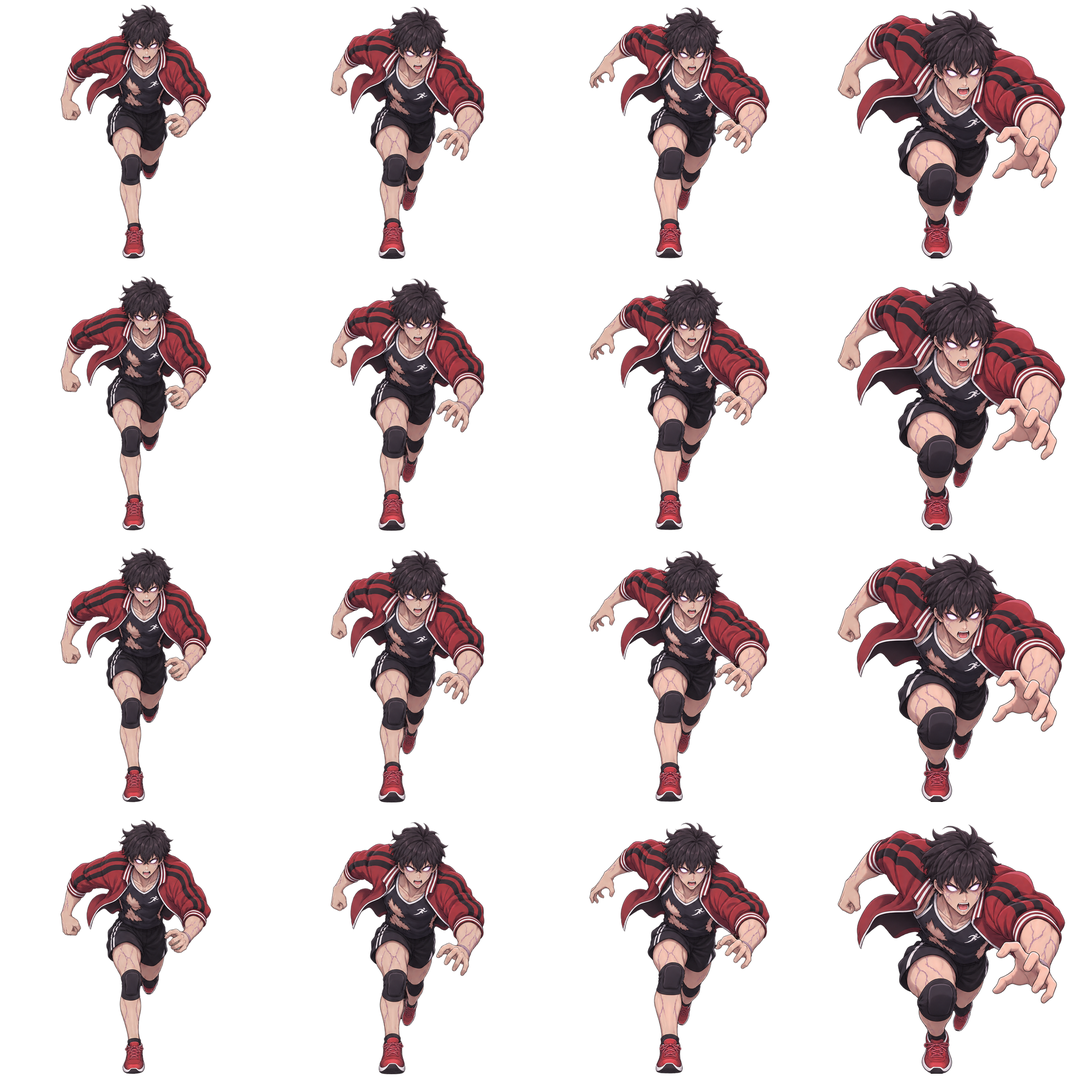
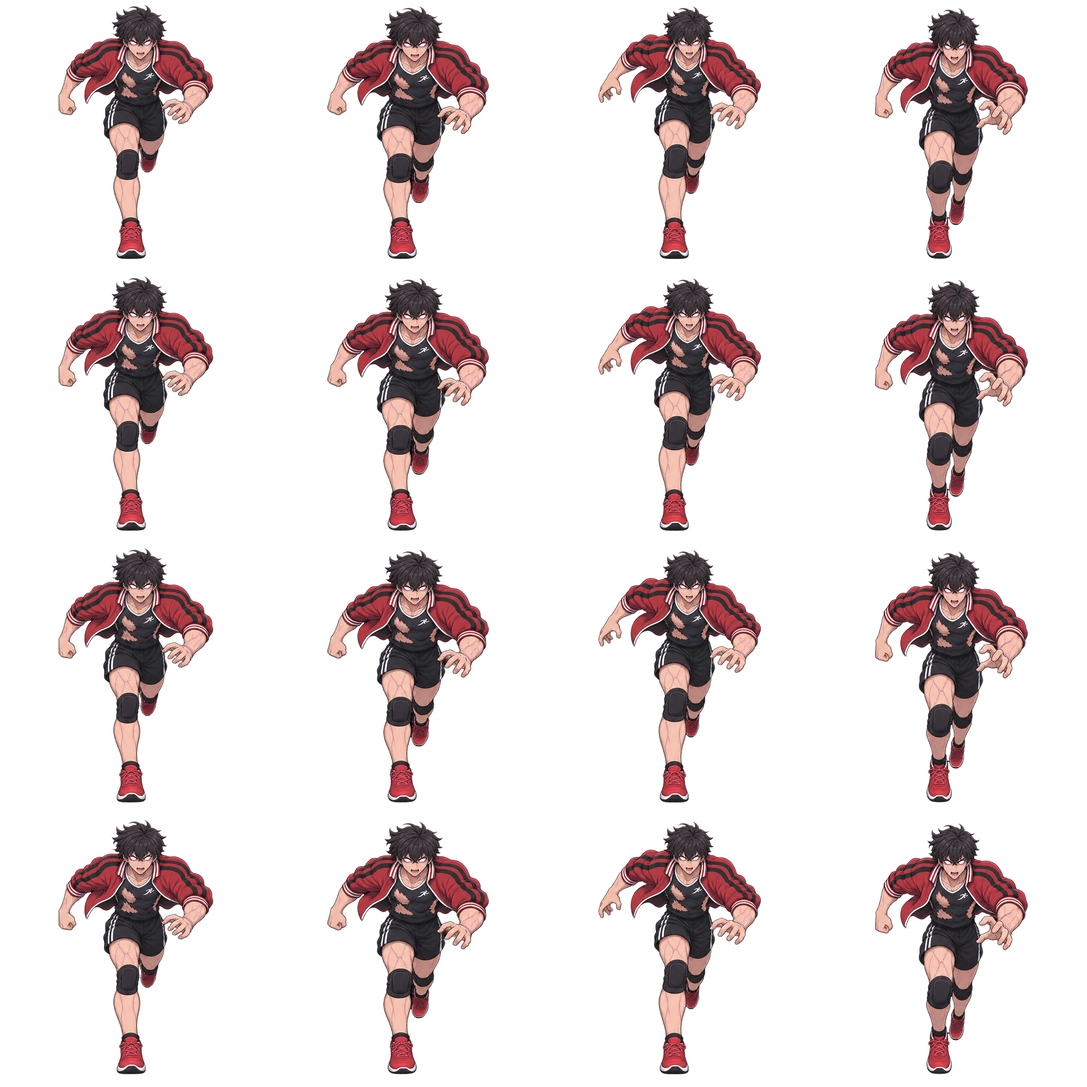
feat(szd): add 5 glamorous horror female zombies and fix walk-loop motion

diff --git a/school-zombie-defense/js/game.js b/school-zombie-defense/js/game.js
@@ -71,7 +71,7 @@
   const imageAsset = (path) => {
     return SUPPORTS_WEBP ? path.replace(/\.png$/i, ".webp") : path;
   };
-  const ZOMBIE_ASSET_VERSION = "20261126-zombies-native-v2";
+  const ZOMBIE_ASSET_VERSION = "20261126-zombies-native-v3";
   const CHARACTER_ASSET_VERSION = "20261123-defenders-8f-v3";
   const CHARACTER_CONTINUITY_ASSET_VERSION = "20261123-defender-continuity-8f-v3";
   const FIREBOMB_RECOVERY_ASSET_VERSION = "20261123-firebomb-recovery-8f-v3";
@@ -430,7 +430,12 @@
     "bloom",
     "charger",
     "kendo",
-    "cheer"
+    "cheer",
+    "volleyball",
+    "plump",
+    "swimmer",
+    "ballet",
+    "librarian"
   ];
   const ZOMBIE_DEATH_TEXTURES = Object.fromEntries(
     ZOMBIE_DEATH_TYPES.map((type) => [
@@ -445,6 +450,7 @@
   // Alpha-weighted final-frame centers and opaque bounds, normalized to each 512px death frame.
   const ZOMBIE_DEATH_FINAL_FRAME_BOUNDS = {
     "zombie-death-athlete-sheet": { x: -0.0175, y: 0.3338, width: 0.6504, height: 0.2383 },
+    "zombie-death-ballet-sheet": { x: -0.0475, y: 0.3283, width: 0.8223, height: 0.2422 },
     "zombie-death-bloom-sheet": { x: -0.0336, y: 0.0624, width: 0.9062, height: 0.2656 },
     "zombie-death-brute-sheet": { x: -0.0152, y: -0.0022, width: 0.5859, height: 0.3145 },
     "zombie-death-charger-sheet": { x: -0.0609, y: 0.3567, width: 0.7734, height: 0.2324 },
@@ -455,19 +461,23 @@
     "zombie-death-guard-sheet": { x: -0.0163, y: 0.0768, width: 0.6914, height: 0.1992 },
     "zombie-death-janitor-sheet": { x: -0.0444, y: 0.0609, width: 0.7402, height: 0.2363 },
     "zombie-death-kendo-sheet": { x: -0.0205, y: 0.0756, width: 0.6777, height: 0.1992 },
+    "zombie-death-librarian-sheet": { x: -0.0446, y: 0.3214, width: 0.7578, height: 0.2539 },
     "zombie-death-normal-variant-1-sheet": { x: 0.049, y: 0.3356, width: 0.9727, height: 0.3281 },
     "zombie-death-normal-variant-2-sheet": { x: 0.0371, y: 0.2971, width: 0.9727, height: 0.4102 },
     "zombie-death-normal-variant-3-sheet": { x: 0.0783, y: 0.3514, width: 0.9727, height: 0.2988 },
     "zombie-death-normal-variant-4-sheet": { x: 0.0166, y: 0.3326, width: 0.9707, height: 0.3281 },
     "zombie-death-nurse-sheet": { x: -0.0564, y: 0.3367, width: 0.8574, height: 0.2559 },
+    "zombie-death-plump-sheet": { x: -0.0582, y: 0.3014, width: 0.9102, height: 0.3242 },
     "zombie-death-runner-sheet": { x: -0.0406, y: 0.3181, width: 0.7559, height: 0.2734 },
     "zombie-death-screamer-sheet": { x: -0.0498, y: 0.0653, width: 0.7402, height: 0.2148 },
     "zombie-death-spider-sheet": { x: 0.0025, y: 0.0582, width: 0.8574, height: 0.459 },
     "zombie-death-student-1-sheet": { x: -0.0706, y: 0.0445, width: 0.9707, height: 0.3535 },
     "zombie-death-student-2-sheet": { x: 0.0726, y: 0.0443, width: 0.9434, height: 0.3594 },
     "zombie-death-student-3-sheet": { x: -0.0875, y: 0.0435, width: 0.959, height: 0.3418 },
+    "zombie-death-swimmer-sheet": { x: -0.059, y: 0.3248, width: 0.7246, height: 0.2656 },
     "zombie-death-teacher-sheet": { x: -0.0386, y: 0.0342, width: 0.7578, height: 0.3027 },
-    "zombie-death-volatile-sheet": { x: -0.0087, y: -0.0064, width: 0.6543, height: 0.3418 }
+    "zombie-death-volatile-sheet": { x: -0.0087, y: -0.0064, width: 0.6543, height: 0.3418 },
+    "zombie-death-volleyball-sheet": { x: -0.0489, y: 0.3344, width: 0.7773, height: 0.2559 }
   };
   const ZOMBIE_DEATH_RENDER_SCALES = {
     // Match the first visible death pose to the alpha-bounded size of the walk cycle.
@@ -482,7 +492,7 @@
     teacher: { deathSize: 1.3 },
     nurse: { deathSize: 0.96 },
     diva: { deathSize: 1.42 },
-    athlete: { deathSize: 1.32 },
+    athlete: { deathSize: 1.29 },
     janitor: { deathSize: 1.5 },
     guard: { deathSize: 1.5 },
     crawler: { deathSize: 0.95 },
@@ -491,7 +501,12 @@
     bloom: { deathSize: 1.13 },
     charger: { deathSize: 1.18 },
     kendo: { deathSize: 1.42 },
-    cheer: { deathSize: 1 }
+    cheer: { deathSize: 1 },
+    volleyball: { deathSize: 0.88 },
+    plump: { deathSize: 0.99 },
+    swimmer: { deathSize: 0.9 },
+    ballet: { deathSize: 1.13 },
+    librarian: { deathSize: 1.13 }
   };
   const ZOMBIE_FOOT_OFFSET_RATIOS = {
     normal: 0.386,
@@ -512,7 +527,12 @@
     bloom: 0.392,
     charger: 0.408,
     kendo: 0.402,
-    cheer: 0.394
+    cheer: 0.394,
+    volleyball: 0.394,
+    plump: 0.402,
+    swimmer: 0.394,
+    ballet: 0.398,
+    librarian: 0.396
   };
   const ZOMBIE_HP_MULTIPLIER = 3;
   const ZOMBIE_SPAWN_INTERVAL_MULTIPLIER = 2.4;
@@ -869,6 +889,11 @@
     },
     kendo: { id: "kendo", hpScale: 1.55, speedScale: 1.06, sizeScale: 1.04, attackScale: 1.24, hitRadiusScale: 1.02, knockbackScale: 0.72, animRate: 6.6, reward: 2, parryCharges: 2, parryCooldown: 1.6 },
     cheer: { id: "cheer", hpScale: 0.84, speedScale: 1.48, sizeScale: 0.92, attackScale: 0.92, hitRadiusScale: 0.9, knockbackScale: 1.1, animRate: 8.8, reward: 1, hasteRoarInterval: 4.8, hasteRoarRadius: 165, hasteDuration: 2.2, hasteSpeedScale: 1.32 },
+    volleyball: { id: "volleyball", hpScale: 1.05, speedScale: 1.54, sizeScale: 0.96, attackScale: 1.08, hitRadiusScale: 0.92, knockbackScale: 1.02, animRate: 8.8, reward: 2, surgeSpeedScale: 2.55, surgeDuration: 0.32, surgeChargeDuration: 0.2, surgeCooldownMin: 4.0, surgeCooldownMax: 5.4, surgeMinBarricadeDistance: 120 },
+    plump: { id: "plump", hpScale: 2.75, speedScale: 0.78, sizeScale: 1.16, attackScale: 1.32, hitRadiusScale: 1.14, knockbackScale: 0.52, animRate: 5.4, reward: 2, tauntAura: true, tauntRadius: 195 },
+    swimmer: { id: "swimmer", hpScale: 1.12, speedScale: 1.62, sizeScale: 0.94, attackScale: 0.98, hitRadiusScale: 0.9, knockbackScale: 1.06, animRate: 9.2, reward: 2, slowResist: 0.55 },
+    ballet: { id: "ballet", hpScale: 0.96, speedScale: 1.48, sizeScale: 0.94, attackScale: 1.06, hitRadiusScale: 0.9, knockbackScale: 1.05, animRate: 8.6, reward: 2, parryCharges: 1, parryCooldown: 1.4 },
+    librarian: { id: "librarian", hpScale: 1.34, speedScale: 1.02, sizeScale: 0.98, attackScale: 1.14, hitRadiusScale: 0.94, knockbackScale: 0.88, animRate: 6.4, reward: 2, veilAuraInterval: 5.4, veilAuraRadius: 165, veilDuration: 3.2, veilReduction: 0.25 },
     elite: { id: "elite", hpScale: 1.5, speedScale: 1, sizeScale: 1, attackScale: 1, hitRadiusScale: 1, knockbackScale: 0.5, animRate: 5.2, reward: 4 }
   };
   const ZOMBIE_TEXTURE_TYPES = [
@@ -890,7 +915,12 @@
     "bloom",
     "charger",
     "kendo",
-    "cheer"
+    "cheer",
+    "volleyball",
+    "plump",
+    "swimmer",
+    "ballet",
+    "librarian"
   ];
   const ZOMBIE_MULTI_VARIANT_WALK_TYPES = new Set(["normal"]);
 
@@ -949,6 +979,7 @@
     ];
     if (level >= 2) {
       entries.push({ type: ZOMBIE_TYPE_CONFIGS.student, weight: Math.min(34, 12 + level * 1.7) });
+      entries.push({ type: ZOMBIE_TYPE_CONFIGS.volleyball, weight: Math.min(26, 8 + level * 1.3) });
     }
     if (level >= 2) {
       entries.push({ type: ZOMBIE_TYPE_CONFIGS.runner, weight: Math.min(42, 14 + level * 2) });
@@ -956,17 +987,21 @@
     if (level >= 4) {
       entries.push({ type: ZOMBIE_TYPE_CONFIGS.brute, weight: Math.min(28, 8 + (level - 4) * 1.6) });
       entries.push({ type: ZOMBIE_TYPE_CONFIGS.screamer, weight: Math.min(24, 7 + (level - 4) * 1.25) });
+      entries.push({ type: ZOMBIE_TYPE_CONFIGS.ballet, weight: Math.min(24, 7 + (level - 4) * 1.25) });
     }
     if (level >= 3) {
       entries.push({ type: ZOMBIE_TYPE_CONFIGS.nurse, weight: Math.min(28, 8 + level * 1.3) });
       entries.push({ type: ZOMBIE_TYPE_CONFIGS.diva, weight: Math.min(24, 8 + level * 1.1) });
       entries.push({ type: ZOMBIE_TYPE_CONFIGS.athlete, weight: Math.min(32, 9 + level * 1.4) });
       entries.push({ type: ZOMBIE_TYPE_CONFIGS.cheer, weight: Math.min(26, 8 + level * 1.25) });
+      entries.push({ type: ZOMBIE_TYPE_CONFIGS.swimmer, weight: Math.min(26, 8 + level * 1.25) });
+      entries.push({ type: ZOMBIE_TYPE_CONFIGS.plump, weight: Math.min(22, 6 + level * 1.15) });
     }
     if (level >= 5) {
       entries.push({ type: ZOMBIE_TYPE_CONFIGS.teacher, weight: Math.min(26, 7 + (level - 5) * 1.35) });
       entries.push({ type: ZOMBIE_TYPE_CONFIGS.janitor, weight: Math.min(24, 6 + (level - 5) * 1.25) });
       entries.push({ type: ZOMBIE_TYPE_CONFIGS.kendo, weight: Math.min(24, 6 + (level - 5) * 1.25) });
+      entries.push({ type: ZOMBIE_TYPE_CONFIGS.librarian, weight: Math.min(22, 6 + (level - 5) * 1.2) });
     }
     if (level >= 6) {
       entries.push({ type: ZOMBIE_TYPE_CONFIGS.volatile, weight: Math.min(24, 6 + (level - 6) * 1.45) });
@@ -996,9 +1031,9 @@
   }
   const STAGE_BOSS_CONFIGS = {
     1: { type: "brute", nameKey: "boss.brute", hpMultiplier: 4.8, scale: 1.28, speedScale: 0.78, attackScale: 1.35, accent: 0xff6b47, escorts: ["runner", "normal"] },
-    2: { type: "diva", nameKey: "boss.diva", hpMultiplier: 5.4, scale: 1.28, speedScale: 0.88, attackScale: 1.25, accent: 0xff4fa7, escorts: ["cheer", "nurse"] },
-    3: { type: "guard", nameKey: "boss.guard", hpMultiplier: 6.2, scale: 1.28, speedScale: 0.74, attackScale: 1.35, accent: 0x6dd5ff, escorts: ["kendo", "charger"] },
-    4: { type: "elite", nameKey: "boss.elite", hpMultiplier: 7.2, scale: 1.28, speedScale: 0.84, attackScale: 1.4, accent: 0xffd15c, escorts: ["spider", "bloom"] }
+    2: { type: "diva", nameKey: "boss.diva", hpMultiplier: 5.4, scale: 1.28, speedScale: 0.88, attackScale: 1.25, accent: 0xff4fa7, escorts: ["ballet", "swimmer"] },
+    3: { type: "guard", nameKey: "boss.guard", hpMultiplier: 6.2, scale: 1.28, speedScale: 0.74, attackScale: 1.35, accent: 0x6dd5ff, escorts: ["kendo", "librarian"] },
+    4: { type: "elite", nameKey: "boss.elite", hpMultiplier: 7.2, scale: 1.28, speedScale: 0.84, attackScale: 1.4, accent: 0xffd15c, escorts: ["plump", "volleyball"] }
   };
   const isBossWave = (level) => level > 0 && level % 4 === 0;
   const SKILL_ACCENTS = {
@@ -7290,6 +7325,14 @@
         zombie.parryCooldownTimer = 0;
         zombie.tauntAura = Boolean(typeConfig.tauntAura);
         zombie.tauntRadius = typeConfig.tauntRadius || 0;
+        zombie.slowResist = typeConfig.slowResist || 0;
+        zombie.veilAuraInterval = typeConfig.veilAuraInterval || 0;
+        zombie.veilAuraTimer = zombie.veilAuraInterval ? rand(1.8, zombie.veilAuraInterval) : 0;
+        zombie.veilAuraRadius = typeConfig.veilAuraRadius || 0;
+        zombie.veilDuration = typeConfig.veilDuration || 0;
+        zombie.veilReduction = typeConfig.veilReduction || 0;
+        zombie.veilTimer = 0;
+        zombie.veilBonusReduction = 0;
         zombie.isBoss = isBoss;
         zombie.bossConfig = (overrideConfig && overrideConfig.bossConfig) || null;
         zombie.bossName = zombie.bossConfig ? SchoolI18n.t(zombie.bossConfig.nameKey) : "";
@@ -9611,6 +9654,17 @@ turret && !(((__oc90 = turret.container) === null || __oc90 === void 0 ? void 0 
       ) {
         damage = Math.max(1, Math.round(damage * (1 - zombie.armorReduction)));
       }
+      if (
+        !parried
+        && zombie.veilTimer > 0
+        && (zombie.veilBonusReduction || 0) > 0
+        && !crit
+        && hitType !== "projectile-sniper"
+        && hitType !== "explosion"
+        && hitType !== "projectile-rocket"
+      ) {
+        damage = Math.max(1, Math.round(damage * (1 - zombie.veilBonusReduction)));
+      }
       if (options.showHitEffect !== false) {
         this.createZombieHitEffect(zombie, hitType, crit, impactPoint);
       }
@@ -10298,6 +10352,12 @@ turret && !(((__oc90 = turret.container) === null || __oc90 === void 0 ? void 0 
           zombie.hasteBonusScale = 1;
         }
       }
+      if (zombie.veilTimer > 0) {
+        zombie.veilTimer = Math.max(0, zombie.veilTimer - dt);
+        if (zombie.veilTimer <= 0) {
+          zombie.veilBonusReduction = 0;
+        }
+      }
       if (zombie.bossAura && zombie.bossAura.active) {
         const foot = this.getZombieFootPoint(zombie);
         zombie.bossAura.setPosition(foot.x, foot.y + 4);
@@ -10374,6 +10434,43 @@ turret && !(((__oc90 = turret.container) === null || __oc90 === void 0 ? void 0 
             ease: "Cubic.easeOut",
             onComplete: () => this.destroyTransientObject(roar, false)
           });
+        }
+      }
+      // 도서부 사서 좀비: 주변 좀비에게 암흑 장막(피해 경감) 부여
+      if (zombie.veilAuraInterval > 0) {
+        zombie.veilAuraTimer -= dt;
+        if (zombie.veilAuraTimer <= 0) {
+          zombie.veilAuraTimer = zombie.veilAuraInterval;
+          const radiusSq = zombie.veilAuraRadius * zombie.veilAuraRadius;
+          let veiledCount = 0;
+          for (let j = 0; j < this.zombies.length && veiledCount < 6; j += 1) {
+            const ally = this.zombies[j];
+            if (!ally || !ally.active || ally.hp <= 0) {
+              continue;
+            }
+            const dx = ally.x - zombie.x;
+            const dy = ally.y - zombie.y;
+            if (dx * dx + dy * dy <= radiusSq) {
+              ally.veilTimer = Math.max(ally.veilTimer || 0, zombie.veilDuration || 3.2);
+              ally.veilBonusReduction = Math.max(ally.veilBonusReduction || 0, zombie.veilReduction || 0.25);
+              veiledCount += 1;
+            }
+          }
+          if (veiledCount > 0) {
+            const veilRing = this.trackTransient(
+              this.add.circle(zombie.x, zombie.y + 14, 22, 0xa866ff, 0.14)
+                .setStrokeStyle(2.5, 0xc799ff, 0.85)
+                .setDepth((zombie.depth || ZOMBIE_BODY_DEPTH_BASE) - 0.3)
+            );
+            this.tweens.add({
+              targets: veilRing,
+              scale: Math.max(2.3, zombie.veilAuraRadius / 35),
+              alpha: 0,
+              duration: 460,
+              ease: "Cubic.easeOut",
+              onComplete: () => this.destroyTransientObject(veilRing, false)
+            });
+          }
         }
       }
     }
@@ -10465,7 +10562,8 @@ turret && !(((__oc90 = turret.container) === null || __oc90 === void 0 ? void 0 
         this.separateZombieFromCrowd(zombie, dt);
 
         const hasteMoveScale = zombie.hasteTimer > 0 ? (zombie.hasteBonusScale || 1.32) : 1;
-        const slowFactor = (zombie.slowTimer > 0 ? 0.34 : 1) * hasteMoveScale;
+        const slowMultiplier = 1 - 0.66 * (1 - (zombie.slowResist || 0));
+        const slowFactor = (zombie.slowTimer > 0 ? slowMultiplier : 1) * hasteMoveScale;
         const attackLine = this.getZombieBarricadeContactY(zombie);
         const frontBlocker = this.getZombieFrontBlocker(zombie);
         const surgeMovementScale = this.updateZombieSurge(zombie, dt, attackLine, frontBlocker);

diff --git a/school-zombie-defense/js/zombie-motion-data.js b/school-zombie-defense/js/zombie-motion-data.js
@@ -2,7 +2,8 @@
 (function (global) {
   const data = {
     walk: {
-      "athlete": [[0.0118,-0.1286],[0.0093,-0.1072],[0.0258,-0.1114],[0.0175,-0.0955],[0.0118,-0.1286],[0.0093,-0.1072],[0.0258,-0.1114],[0.0175,-0.0955],[0.0118,-0.1286],[0.0093,-0.1072],[0.0258,-0.1114],[0.0175,-0.0955],[0.0118,-0.1286],[0.0093,-0.1072],[0.0258,-0.1114],[0.0175,-0.0955]],
+      "athlete": [[0.0043,-0.1223],[0.0179,-0.1052],[0.0221,-0.1138],[0.0047,-0.0955],[0.0043,-0.1223],[0.0179,-0.1052],[0.0221,-0.1138],[0.0047,-0.0955],[0.0043,-0.1223],[0.0179,-0.1052],[0.0221,-0.1138],[0.0047,-0.0955],[0.0043,-0.1223],[0.0179,-0.1052],[0.0221,-0.1138],[0.0047,-0.0955]],
+      "ballet": [[-0.0143,-0.0543],[-0.0187,-0.0579],[-0.0287,-0.0497],[-0.0258,-0.044],[-0.0143,-0.0543],[-0.0187,-0.0579],[-0.0287,-0.0497],[-0.0258,-0.044],[-0.0143,-0.0543],[-0.0187,-0.0579],[-0.0287,-0.0497],[-0.0258,-0.044],[-0.0143,-0.0543],[-0.0187,-0.0579],[-0.0287,-0.0497],[-0.0258,-0.044]],
       "bloom": [[-0.0044,-0.0942],[-0.0061,-0.0527],[-0.0086,-0.1007],[-0.0081,-0.0479],[-0.0044,-0.0942],[-0.0061,-0.0527],[-0.0086,-0.1007],[-0.0081,-0.0479],[-0.0044,-0.0942],[-0.0061,-0.0527],[-0.0086,-0.1007],[-0.0081,-0.0479],[-0.0044,-0.0942],[-0.0061,-0.0527],[-0.0086,-0.1007],[-0.0081,-0.0479]],
       "brute": [[0.001,-0.0674],[-0.0178,-0.0373],[0.0001,-0.0714],[-0.0007,-0.0337],[0.001,-0.0674],[-0.0178,-0.0373],[0.0001,-0.0714],[-0.0007,-0.0337],[0.001,-0.0674],[-0.0178,-0.0373],[0.0001,-0.0714],[-0.0007,-0.0337],[0.001,-0.0674],[-0.0178,-0.0373],[0.0001,-0.0714],[-0.0007,-0.0337]],
       "charger": [[0.0018,-0.1043],[0.0137,-0.0589],[0.0005,-0.0961],[-0.0353,-0.0607],[0.0018,-0.1043],[0.0137,-0.0589],[0.0005,-0.0961],[-0.0353,-0.0607],[0.0018,-0.1043],[0.0137,-0.0589],[0.0005,-0.0961],[-0.0353,-0.0607],[0.0018,-0.1043],[0.0137,-0.0589],[0.0005,-0.0961],[-0.0353,-0.0607]],
@@ -13,17 +14,22 @@
       "guard": [[0.0055,-0.0704],[0.003,-0.0498],[-0.0026,-0.0697],[-0.0017,-0.0402],[0.0055,-0.0704],[0.003,-0.0498],[-0.0026,-0.0697],[-0.0017,-0.0402],[0.0055,-0.0704],[0.003,-0.0498],[-0.0026,-0.0697],[-0.0017,-0.0402],[0.0055,-0.0704],[0.003,-0.0498],[-0.0026,-0.0697],[-0.0017,-0.0402]],
       "janitor": [[-0.0033,-0.0859],[0.002,-0.0529],[0.0056,-0.0708],[-0.0091,-0.0404],[-0.0033,-0.0859],[0.002,-0.0529],[0.0056,-0.0708],[-0.0091,-0.0404],[-0.0033,-0.0859],[0.002,-0.0529],[0.0056,-0.0708],[-0.0091,-0.0404],[-0.0033,-0.0859],[0.002,-0.0529],[0.0056,-0.0708],[-0.0091,-0.0404]],
       "kendo": [[0.0113,-0.0514],[0.0136,0.0041],[0.0208,-0.0518],[0.0137,0.0092],[0.0113,-0.0514],[0.0136,0.0041],[0.0208,-0.0518],[0.0137,0.0092],[0.0113,-0.0514],[0.0136,0.0041],[0.0208,-0.0518],[0.0137,0.0092],[0.0113,-0.0514],[0.0136,0.0041],[0.0208,-0.0518],[0.0137,0.0092]],
+      "librarian": [[-0.0097,-0.0809],[-0.0041,-0.074],[-0.0086,-0.0807],[-0.0027,-0.0735],[-0.0097,-0.0809],[-0.0041,-0.074],[-0.0086,-0.0807],[-0.0027,-0.0735],[-0.0097,-0.0809],[-0.0041,-0.074],[-0.0086,-0.0807],[-0.0027,-0.0735],[-0.0097,-0.0809],[-0.0041,-0.074],[-0.0086,-0.0807],[-0.0027,-0.0735]],
       "normal": [[0.0,-0.0598],[-0.0195,-0.0495],[-0.0016,-0.0624],[-0.0053,-0.0787],[-0.0035,-0.0571],[-0.0151,-0.0574],[-0.0063,-0.0677],[-0.0148,-0.0714],[0.0033,-0.0734],[-0.0079,-0.0489],[-0.0114,-0.0765],[0.0079,-0.0742],[-0.0037,-0.0841],[-0.0046,-0.0757],[0.0023,-0.0803],[0.0065,-0.0872]],
       "nurse": [[0.0046,-0.0824],[0.0069,-0.0124],[-0.0018,-0.0877],[0.0021,-0.0736],[0.0046,-0.0824],[0.0069,-0.0124],[-0.0018,-0.0877],[0.0021,-0.0736],[0.0046,-0.0824],[0.0069,-0.0124],[-0.0018,-0.0877],[0.0021,-0.0736],[0.0046,-0.0824],[0.0069,-0.0124],[-0.0018,-0.0877],[0.0021,-0.0736]],
+      "plump": [[-0.0173,-0.0604],[-0.0264,-0.0612],[-0.0334,-0.0606],[-0.0342,-0.06],[-0.0173,-0.0604],[-0.0264,-0.0612],[-0.0334,-0.0606],[-0.0342,-0.06],[-0.0173,-0.0604],[-0.0264,-0.0612],[-0.0334,-0.0606],[-0.0342,-0.06],[-0.0173,-0.0604],[-0.0264,-0.0612],[-0.0334,-0.0606],[-0.0342,-0.06]],
       "runner": [[-0.0207,-0.127],[-0.0021,-0.1046],[-0.0213,-0.0984],[0.0185,-0.095],[-0.0207,-0.127],[-0.0021,-0.1046],[-0.0213,-0.0984],[0.0185,-0.095],[-0.0207,-0.127],[-0.0021,-0.1046],[-0.0213,-0.0984],[0.0185,-0.095],[-0.0207,-0.127],[-0.0021,-0.1046],[-0.0213,-0.0984],[0.0185,-0.095]],
       "screamer": [[-0.0141,-0.1284],[0.0081,-0.0286],[0.0155,-0.1367],[0.0059,-0.0696],[-0.0141,-0.1284],[0.0081,-0.0286],[0.0155,-0.1367],[0.0059,-0.0696],[-0.0141,-0.1284],[0.0081,-0.0286],[0.0155,-0.1367],[0.0059,-0.0696],[-0.0141,-0.1284],[0.0081,-0.0286],[0.0155,-0.1367],[0.0059,-0.0696]],
       "spider": [[-0.0168,-0.1331],[-0.0017,-0.1316],[0.0269,-0.1364],[-0.0059,-0.1316],[-0.0168,-0.1331],[-0.0017,-0.1316],[0.0269,-0.1364],[-0.0059,-0.1316],[-0.0168,-0.1331],[-0.0017,-0.1316],[0.0269,-0.1364],[-0.0059,-0.1316],[-0.0168,-0.1331],[-0.0017,-0.1316],[0.0269,-0.1364],[-0.0059,-0.1316]],
       "student": [[-0.0087,-0.0951],[-0.0013,-0.0736],[-0.0073,-0.1009],[-0.001,-0.0544],[-0.0087,-0.0951],[-0.0013,-0.0736],[-0.0073,-0.1009],[-0.001,-0.0544],[-0.0087,-0.0951],[-0.0013,-0.0736],[-0.0073,-0.1009],[-0.001,-0.0544],[-0.0087,-0.0951],[-0.0013,-0.0736],[-0.0073,-0.1009],[-0.001,-0.0544]],
+      "swimmer": [[0.0085,-0.0722],[-0.0048,-0.0646],[-0.0077,-0.076],[-0.0115,-0.0732],[0.0085,-0.0722],[-0.0048,-0.0646],[-0.0077,-0.076],[-0.0115,-0.0732],[0.0085,-0.0722],[-0.0048,-0.0646],[-0.0077,-0.076],[-0.0115,-0.0732],[0.0085,-0.0722],[-0.0048,-0.0646],[-0.0077,-0.076],[-0.0115,-0.0732]],
       "teacher": [[-0.0228,-0.0918],[-0.0149,-0.0562],[-0.0015,-0.0858],[-0.0077,-0.0647],[-0.0228,-0.0918],[-0.0149,-0.0562],[-0.0015,-0.0858],[-0.0077,-0.0647],[-0.0228,-0.0918],[-0.0149,-0.0562],[-0.0015,-0.0858],[-0.0077,-0.0647],[-0.0228,-0.0918],[-0.0149,-0.0562],[-0.0015,-0.0858],[-0.0077,-0.0647]],
       "volatile": [[0.0072,-0.0842],[0.0027,-0.0158],[-0.0023,-0.0782],[-0.0014,-0.0485],[0.0072,-0.0842],[0.0027,-0.0158],[-0.0023,-0.0782],[-0.0014,-0.0485],[0.0072,-0.0842],[0.0027,-0.0158],[-0.0023,-0.0782],[-0.0014,-0.0485],[0.0072,-0.0842],[0.0027,-0.0158],[-0.0023,-0.0782],[-0.0014,-0.0485]],
+      "volleyball": [[-0.0416,-0.0684],[-0.0404,-0.075],[-0.0417,-0.0916],[-0.0603,-0.0861],[-0.0416,-0.0684],[-0.0404,-0.075],[-0.0417,-0.0916],[-0.0603,-0.0861],[-0.0416,-0.0684],[-0.0404,-0.075],[-0.0417,-0.0916],[-0.0603,-0.0861],[-0.0416,-0.0684],[-0.0404,-0.075],[-0.0417,-0.0916],[-0.0603,-0.0861]],
     },
     death: {
       "zombie-death-athlete-sheet": [[-0.0165,0.0644],[-0.0166,0.157],[-0.0389,0.2076],[-0.0454,0.2677],[-0.0569,0.2634],[-0.0344,0.3076],[-0.0247,0.3166],[-0.0175,0.3338]],
+      "zombie-death-ballet-sheet": [[-0.0135,-0.023],[-0.0201,0.0263],[-0.0027,0.1256],[-0.0496,0.2137],[-0.048,0.2401],[-0.0527,0.2586],[-0.0494,0.3163],[-0.0475,0.3283]],
       "zombie-death-bloom-sheet": [[-0.0226,-0.0836],[-0.013,-0.037],[-0.0412,0.0783],[-0.0336,0.0624]],
       "zombie-death-brute-sheet": [[0.0051,-0.04],[0.0135,0.0066],[-0.0245,0.0025],[-0.0152,-0.0022]],
       "zombie-death-charger-sheet": [[-0.0206,0.0372],[-0.0587,0.1581],[-0.0626,0.194],[-0.0602,0.2344],[-0.0571,0.3138],[-0.0692,0.3191],[-0.0726,0.36],[-0.0609,0.3567]],
@@ -34,19 +40,23 @@
       "zombie-death-guard-sheet": [[-0.0229,-0.0342],[0.0084,0.0397],[-0.0268,0.1054],[-0.0163,0.0768]],
       "zombie-death-janitor-sheet": [[-0.0151,-0.0014],[-0.0027,0.0432],[-0.0498,0.0489],[-0.0444,0.0609]],
       "zombie-death-kendo-sheet": [[-0.0092,-0.0188],[0.0345,0.042],[-0.0477,0.1082],[-0.0205,0.0756]],
+      "zombie-death-librarian-sheet": [[0.0054,0.0006],[0.0064,0.0352],[-0.0043,0.1513],[-0.0603,0.1986],[-0.0488,0.2318],[-0.0632,0.2549],[-0.0522,0.2982],[-0.0446,0.3214]],
       "zombie-death-normal-variant-1-sheet": [[-0.0106,-0.0438],[-0.0258,-0.0402],[-0.0372,-0.0133],[-0.0152,0.1634],[0.0262,0.1452],[0.05,0.1491],[0.0343,0.1857],[0.0484,0.3237],[0.0523,0.337],[0.0518,0.3339],[0.0528,0.3357],[0.049,0.3356]],
       "zombie-death-normal-variant-2-sheet": [[-0.038,-0.0636],[-0.0407,-0.0616],[-0.0422,-0.0552],[0.0004,-0.0044],[0.0235,0.0391],[0.0906,0.0395],[0.0146,0.1715],[0.0363,0.2885],[0.0365,0.2948],[0.0368,0.297],[0.0372,0.295],[0.0371,0.2971]],
       "zombie-death-normal-variant-3-sheet": [[-0.024,-0.0116],[-0.03,0.0088],[-0.0317,0.0287],[-0.0322,0.0728],[-0.0288,0.1244],[-0.0569,0.1506],[0.0676,0.1615],[0.0554,0.3181],[0.0768,0.3511],[0.077,0.3512],[0.0774,0.3513],[0.0783,0.3514]],
       "zombie-death-normal-variant-4-sheet": [[0.0147,-0.017],[0.0178,0.0175],[0.0102,0.0414],[0.018,0.0865],[0.0214,0.1179],[-0.0029,0.1384],[0.0142,0.1831],[0.0284,0.2369],[0.0227,0.3128],[0.0173,0.3326],[0.0174,0.3325],[0.0166,0.3326]],
       "zombie-death-nurse-sheet": [[0.0097,-0.0385],[0.0015,0.0134],[-0.0016,0.1303],[-0.0578,0.1891],[-0.0481,0.2155],[-0.0526,0.2528],[-0.0488,0.3367],[-0.0564,0.3367]],
+      "zombie-death-plump-sheet": [[-0.0211,-0.0624],[-0.0186,-0.0043],[-0.0191,0.1252],[-0.0522,0.1863],[-0.0527,0.1983],[-0.0754,0.2262],[-0.059,0.2872],[-0.0582,0.3014]],
       "zombie-death-runner-sheet": [[-0.0445,-0.0532],[0.0148,0.0263],[0.0158,0.1799],[-0.0266,0.23],[-0.0421,0.2399],[-0.057,0.2373],[-0.062,0.2581],[-0.0406,0.3181]],
       "zombie-death-screamer-sheet": [[0.001,-0.0715],[0.0116,-0.0038],[-0.057,0.0992],[-0.0498,0.0653]],
       "zombie-death-spider-sheet": [[-0.0352,-0.0974],[-0.0305,-0.0],[-0.0167,0.0202],[-0.0136,0.0226],[-0.0117,0.0395],[-0.0123,0.048],[-0.0031,0.054],[0.0025,0.0582]],
       "zombie-death-student-1-sheet": [[0.0418,-0.0578],[0.0155,0.014],[-0.0574,0.0292],[-0.0706,0.0445]],
       "zombie-death-student-2-sheet": [[-0.0534,-0.0524],[-0.0306,0.0021],[0.0466,0.0317],[0.0726,0.0443]],
       "zombie-death-student-3-sheet": [[0.0338,-0.0613],[-0.0137,0.0133],[-0.1237,0.0145],[-0.0875,0.0435]],
+      "zombie-death-swimmer-sheet": [[-0.0028,-0.0586],[0.0075,-0.0002],[0.0087,0.1173],[-0.0374,0.1844],[-0.0546,0.1819],[-0.0682,0.2465],[-0.0657,0.3005],[-0.059,0.3248]],
       "zombie-death-teacher-sheet": [[-0.0355,-0.054],[-0.0285,0.0118],[-0.0639,0.0343],[-0.0386,0.0342]],
       "zombie-death-volatile-sheet": [[0.0402,-0.0347],[0.0291,-0.0355],[-0.0211,-0.0008],[-0.0087,-0.0064]],
+      "zombie-death-volleyball-sheet": [[0.0036,-0.0541],[0.0107,0.0023],[0.0136,0.1292],[-0.0546,0.1921],[-0.0566,0.1985],[-0.0774,0.2455],[-0.049,0.3226],[-0.0489,0.3344]],
     },
   };
   if (typeof module !== 'undefined' && module.exports) module.exports = data;

diff --git a/school-zombie-defense/index-en.html b/school-zombie-defense/index-en.html
@@ -87,10 +87,10 @@
   <script src="js/i18n.js?v=20261126-szd-phase2-v1&coins=20261004-wallet-v4"></script>
   <script src="js/core-utils.js?v=20260802-modules-v1"></script>
   <script src="js/persistence.js?v=20261004-wallet-v4"></script>
-  <script src="js/zombie-motion-data.js?v=20261126-zombies-native-v2"></script>
-  <script src="js/zombie-motion.js?v=20260913-diva-elite-v1&motion=20261126-zombies-native-v2"></script>
+  <script src="js/zombie-motion-data.js?v=20261126-zombies-native-v3"></script>
+  <script src="js/zombie-motion.js?v=20260913-diva-elite-v1&motion=20261126-zombies-native-v3"></script>
   <script src="js/ui-surfaces.js?v=20261006-asset-pace-v1"></script>
   <script src="js/shop-ui.js?v=20260913-shop-dialog-v2&i18n=20261126-szd-phase2-v1"></script>
-  <script src="js/game.js?v=20260913-diva-elite-v1&frame=20261005-home-v2&crossbow=20261004-directions-v2&coins=20261004-wallet-v4&motion=20261004-proportions-v2&ranking=20261006-client-exception-v1&shop=20260913-shop-dialog-v2&i18n=20261126-szd-phase2-v1&perf=20261006-asset-pace-v1&defenders=20261123-defenders-8f-v3&zombies=20261126-phase2-v2"></script>
+  <script src="js/game.js?v=20260913-diva-elite-v1&frame=20261005-home-v2&crossbow=20261004-directions-v2&coins=20261004-wallet-v4&motion=20261004-proportions-v2&ranking=20261006-client-exception-v1&shop=20260913-shop-dialog-v2&i18n=20261126-szd-phase2-v1&perf=20261006-asset-pace-v1&defenders=20261123-defenders-8f-v3&zombies=20261126-phase3-v1"></script>
 </body>
 </html>

diff --git a/school-zombie-defense/index.html b/school-zombie-defense/index.html
@@ -87,10 +87,10 @@
   <script src="js/i18n.js?v=20261126-szd-phase2-v1&coins=20261004-wallet-v4"></script>
   <script src="js/core-utils.js?v=20260802-modules-v1"></script>
   <script src="js/persistence.js?v=20261004-wallet-v4"></script>
-  <script src="js/zombie-motion-data.js?v=20261126-zombies-native-v2"></script>
-  <script src="js/zombie-motion.js?v=20260913-diva-elite-v1&motion=20261126-zombies-native-v2"></script>
+  <script src="js/zombie-motion-data.js?v=20261126-zombies-native-v3"></script>
+  <script src="js/zombie-motion.js?v=20260913-diva-elite-v1&motion=20261126-zombies-native-v3"></script>
   <script src="js/ui-surfaces.js?v=20261006-asset-pace-v1"></script>
   <script src="js/shop-ui.js?v=20260913-shop-dialog-v2&i18n=20261126-szd-phase2-v1"></script>
-  <script src="js/game.js?v=20260913-diva-elite-v1&frame=20261005-home-v2&crossbow=20261004-directions-v2&coins=20261004-wallet-v4&motion=20261004-proportions-v2&ranking=20261006-client-exception-v1&shop=20260913-shop-dialog-v2&i18n=20261126-szd-phase2-v1&perf=20261006-asset-pace-v1&defenders=20261123-defenders-8f-v3&zombies=20261126-phase2-v2"></script>
+  <script src="js/game.js?v=20260913-diva-elite-v1&frame=20261005-home-v2&crossbow=20261004-directions-v2&coins=20261004-wallet-v4&motion=20261004-proportions-v2&ranking=20261006-client-exception-v1&shop=20260913-shop-dialog-v2&i18n=20261126-szd-phase2-v1&perf=20261006-asset-pace-v1&defenders=20261123-defenders-8f-v3&zombies=20261126-phase3-v1"></script>
 </body>
 </html>

diff --git a/school-zombie-defense/js/zombie-motion.js b/school-zombie-defense/js/zombie-motion.js
@@ -7,8 +7,13 @@
     // Male repaint atlases already contain the reviewed pose corrections.
     normal: [0.89, 0.88, 0.88, 0.85, 0.84, 0.84, 0.9, 1, 1.05, 1.04, 1.05, 1.05],
     runner: [1, 1, 1, 1.04, 1.15, 1.14, 1.08, 1.16],
-    athlete: [1, 1, 0.96, 0.96, 0.96, 1.06, 1.06, 1.14],
+    athlete: [1.01, 0.97, 0.92, 0.91, 0.91, 1.01, 1, 1.08],
     crawler: [1, 1, 0.98, 0.88, 0.98, 0.94, 0.98, 1],
+    volleyball: [1.01, 1.02, 1.07, 1.07, 1, 1.18, 1.2, 1.2],
+    plump: [1.01, 1.05, 1.08, 1.1, 1.06, 1.14, 1.14, 1.14],
+    swimmer: [1, 1.02, 1.04, 1.05, 0.96, 1.13, 1.2, 1.2],
+    ballet: [1.01, 1.01, 1.01, 1, 1, 1, 1, 0.99],
+    librarian: [1, 1, 1, 1, 1, 1, 1, 1],
     charger: [1, 1, 0.98, 0.98, 1.08, 1.04, 1.2, 1.14],
     student: [1, 0.88, 1.04, 1.03],
     brute: [0.95, 1, 1.06, 1.18],

diff --git a/school-zombie-defense/sw.js b/school-zombie-defense/sw.js
@@ -1,3 +1,3 @@
 self.__ARCHERLAB_GAME_ID__ = 'school-zombie-defense-service-worker';
 importScripts('../shared/service-worker-error-reporter.js?v=20260710-d1-v2', '../shared/service-worker-runtime.js?v=20261009-redirect-cache-v1');
-self.ArcherGameServiceWorker.install({ gameId: 'school-zombie-defense', version: '20261126-szd-phase2-v1' });
+self.ArcherGameServiceWorker.install({ gameId: 'school-zombie-defense', version: '20261126-szd-phase3-v1' });
